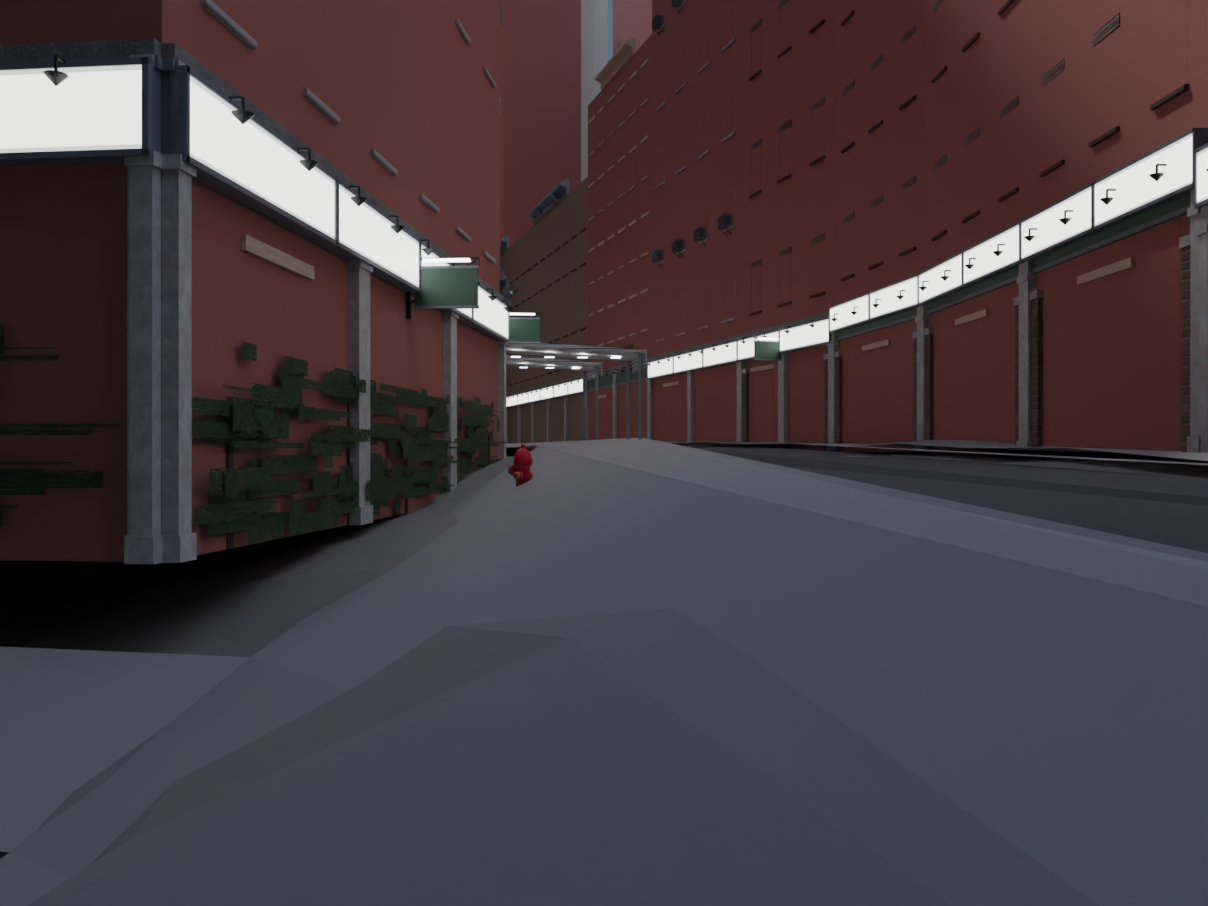
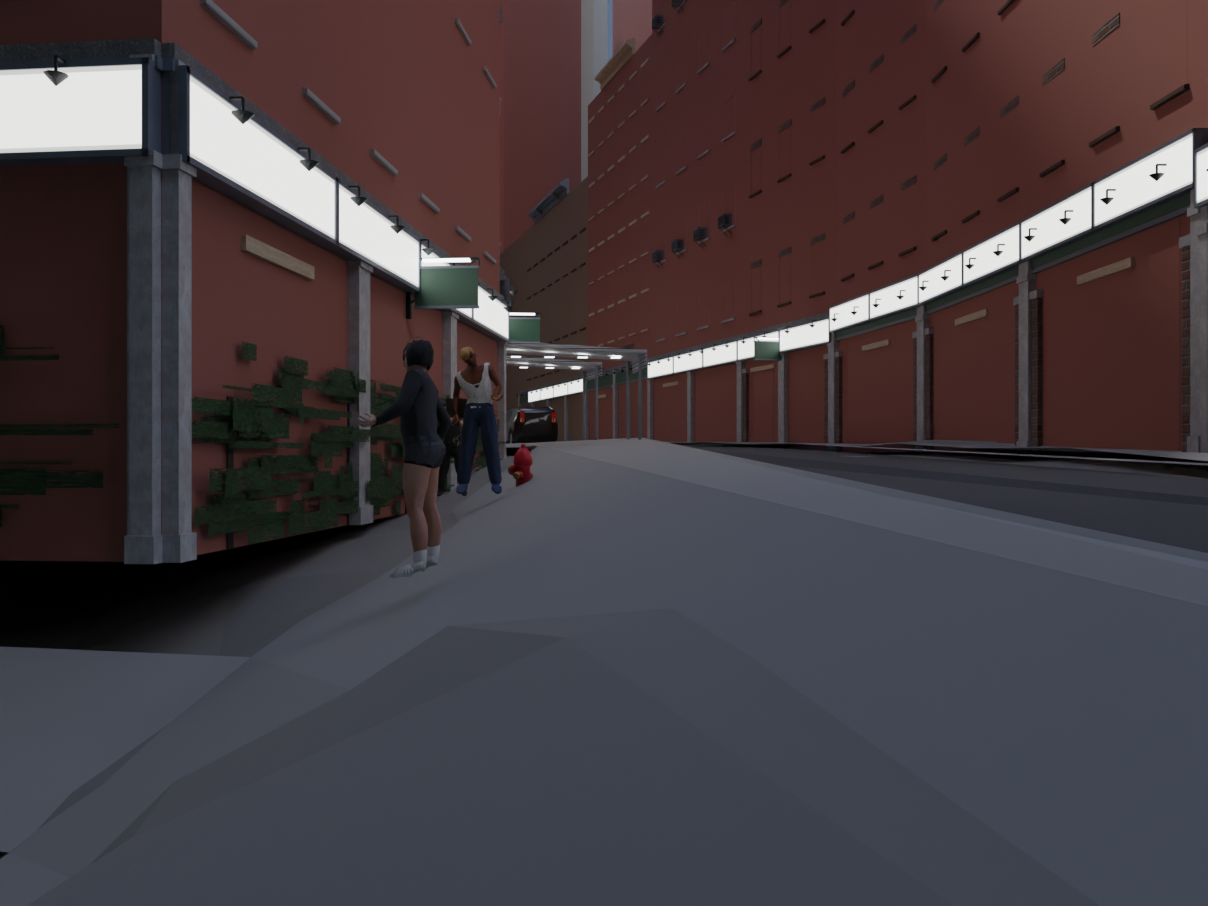
verify: Stone Street, and a first impression the measurement overturned
I read this frame as the lit shopfront fascias blowing out - white strips
dominating a dim scene, the Times Square night calibration applied unchanged to
a daylight alley.  I measured it before writing it and the measurement says the
opposite.

                 render    photograph
  mean            0.249      0.404
  median          0.251      0.298
  above 0.95      0.02 %    14.66 %
  above 0.90      0.97 %    15.76 %
  below 0.20     35.61 %    32.63 %

Nothing in the render clips.  The fascias look like the brightest thing because
everything around them is dark, and the frame is about a stop under the
photograph.

The cause is a difference in kind rather than a bug, and it affects every shaded
frame in the set: the render is physically lit, with the Sun placed from the
photograph's own EXIF instant (13:45, 19 April 2022, elevation 58.6 deg) and a
fixed 0-stop exposure on Filmic, while the photograph was taken by a camera that
metered this alley and opened up for it.  A narrow street in shadow under a high
sun is exactly where the two diverge.  The render is not wrong about the light;
it answers a different question from the one the photograph answers.

Claude-Session: https://claude.ai/code/session_012rCzdfEp56Z5bDvSJLVsiQ

Changed region(s): [[0.3063, 0.3709, 0.4594, 0.6181], [0.3982, 0.2472, 0.4288, 0.2781]]

diff --git a/docs/verification/comparison/drive_lower_manhattan_stone_st/assessment.md b/docs/verification/comparison/drive_lower_manhattan_stone_st/assessment.md
@@ -22,6 +22,37 @@ the photograph's own title and description instead (`docs/verification/compariso
 20 m from the item's recorded viewpoint — so the camera stands on the photograph's own GPS and the two
 halves face the same way for the first time.
 
+## Re-rendered 2026-09-07, and a first impression the measurement overturned
+
+Stone Street reads well: the narrow bend, the brick walls rising straight out of the paving with no
+kerb, the continuous run of shopfront fascias and hanging blade signs down both sides, awnings, a
+hydrant, a parked car at the far end and pedestrians walking the middle of the street — which is what
+Stone Street is, a pedestrianised alley. 5,634 window pieces, 289 storefronts, 53 storefront
+interiors, 89 vehicles and 363 people.
+
+My first reading of this frame was that the lit fascia bands were blowing out — pure white strips
+dominating a dim scene, with the signage emission calibrated on the Times Square *night* photograph
+and applied unchanged to a daylight alley. **The measurement says the opposite and I was wrong.**
+
+| | render | photograph |
+|---|---|---|
+| mean luminance | **0.249** | **0.404** |
+| median | 0.251 | 0.298 |
+| area above 0.95 | **0.02 %** | **14.66 %** |
+| area above 0.90 | 0.97 % | 15.76 % |
+| area below 0.20 | 35.61 % | 32.63 % |
+
+Nothing in the render is clipping. The fascias look like the brightest thing in the frame because
+everything around them is dark, and the frame as a whole is **about a stop under** the photograph it
+is paired with.
+
+The cause is not a bug but a difference in kind, and it is worth stating because it affects every
+shaded frame in this set. The render is physically lit: the Sun is placed from the photograph's own
+EXIF instant (13:45 on 19 April 2022, elevation 58.6°) and the exposure is a fixed 0 stops on a
+Filmic transform. The photograph was taken by a camera that *metered this alley* and opened up for
+it. A narrow street in shadow under a high sun is exactly where those two diverge. The render is not
+wrong about the light; it is answering a different question from the one the photograph answers.
+
 ## What matches
 
 * The alley section is right. Stone Street's 6 m pedestrian width, the walls rising 25 m either side and the way the block bends to the east all match the real street.
